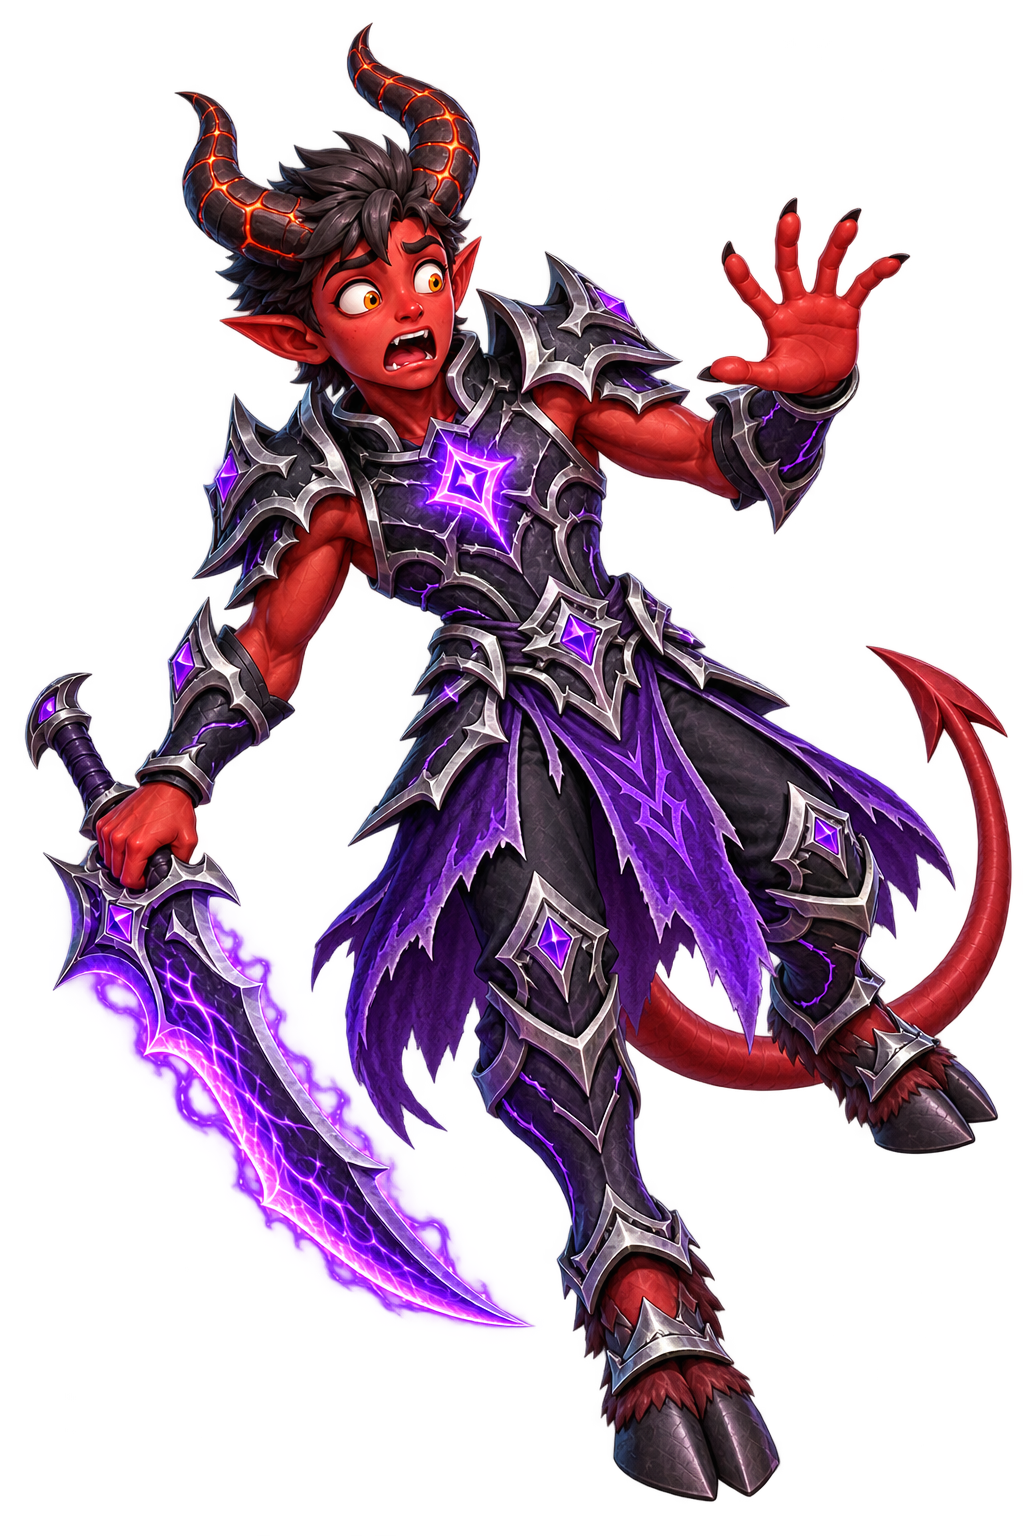
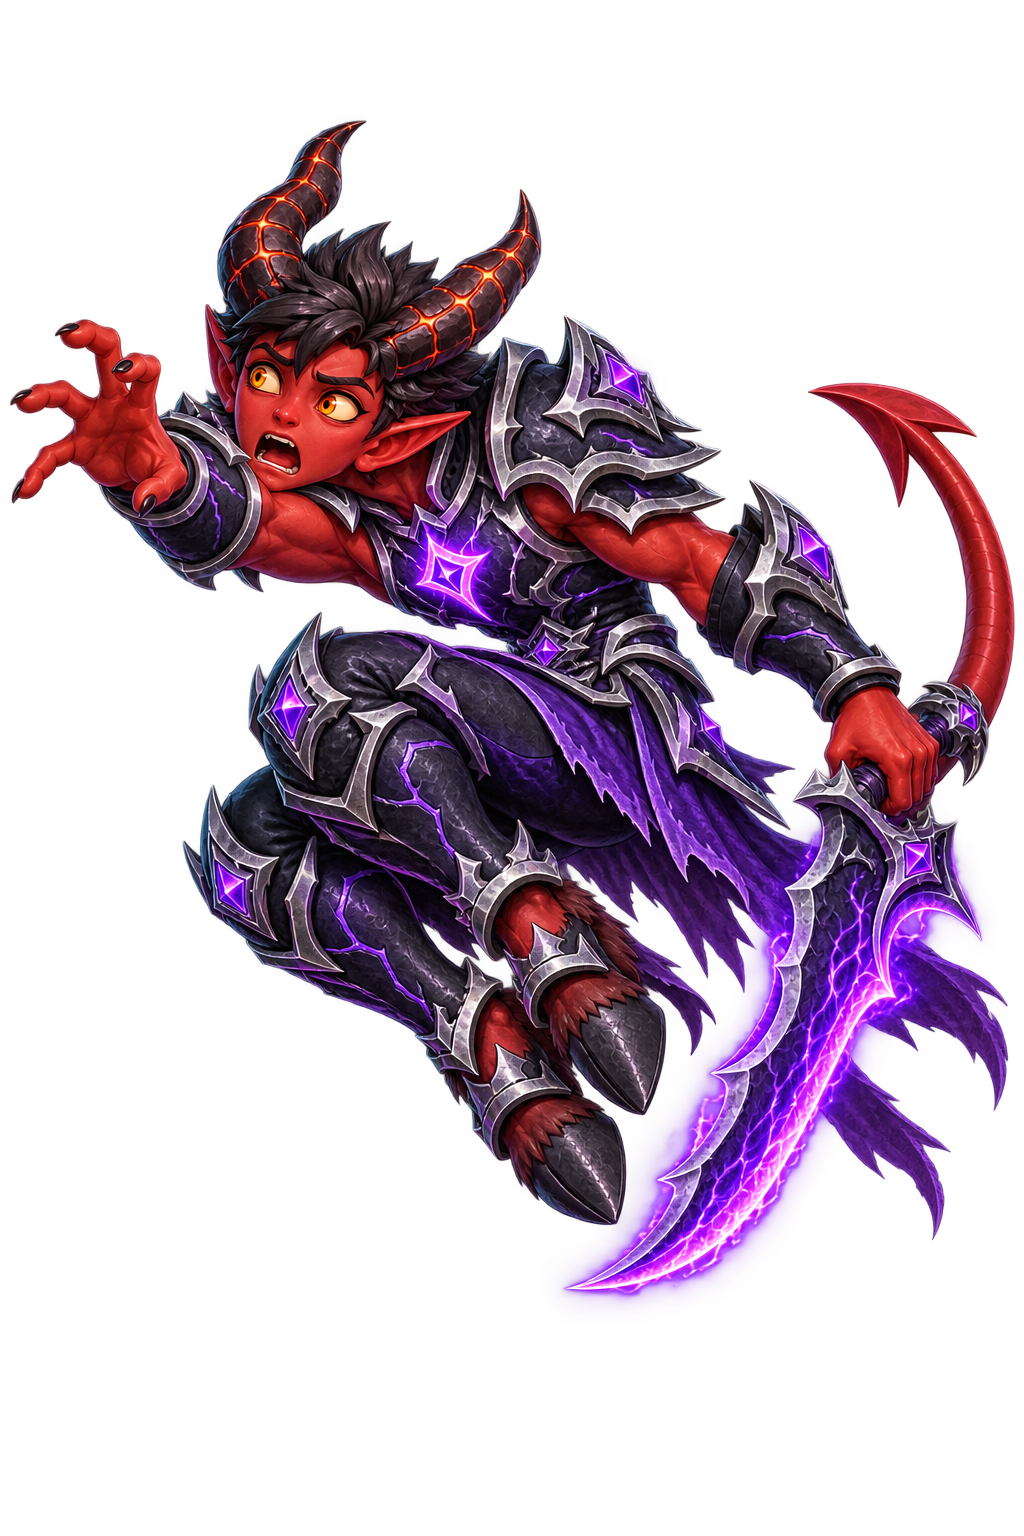
Curl Azrak plant reaction pose using Kalamo as reference

diff --git a/index.html b/index.html
@@ -36,7 +36,7 @@
     <link rel="apple-touch-icon" sizes="180x180" href="assets/icons/apple-touch-icon.png">
     <link rel="preload" as="audio" href="assets/sounds/melodia-menu.mp3" type="audio/mpeg">
     <link rel="preload" as="image" href="assets/images/fondos/menu-inicio-aventura.png">
-    <link rel="stylesheet" href="css/styles.css?v=20260929-fauces-3">
+    <link rel="stylesheet" href="css/styles.css?v=20260929-fauces-4">
     <link rel="stylesheet" href="css/menu-navigation.css?v=20260921-social-mapa-1">
     <link rel="stylesheet" href="css/cosmetic-shop.css?v=20260929-finales-1">
     <link rel="stylesheet" href="css/azrak-world.css?v=20260913-runas-viento-captura-1">
@@ -1573,7 +1573,7 @@
       </div>
       <button id="reintentarPerfilPublico" class="secundario" type="button" hidden>Reintentar</button>
     </dialog>
-    <script src="js/cosmetic-store.js?v=20260929-fauces-3"></script>
+    <script src="js/cosmetic-store.js?v=20260929-fauces-4"></script>
     <script src="js/game-wallet.js?v=20260924-premios-1"></script>
     <script src="js/versus-ranks.js?v=20260922-medallas-3"></script>
     <script src="js/player-avatar.js?v=20260922-medallas-3"></script>
@@ -1594,8 +1594,8 @@
     <script src="js/kalamo-desert.js?v=20260909-arco-aren-1"></script>
     <script src="js/world-word-hazards.js?v=20260914-jaula-fuego"></script>
     <script src="js/developer-access.js?v=20260923-autor-3"></script>
-    <script src="js/app.js?v=20260929-fauces-3"></script>
-    <script src="js/cosmetic-shop.js?v=20260929-fauces-3"></script>
+    <script src="js/app.js?v=20260929-fauces-4"></script>
+    <script src="js/cosmetic-shop.js?v=20260929-fauces-4"></script>
     <script src="js/public-player-profile.js?v=20260922-medallas-3"></script>
     <script src="js/pwa.js?v=20260909-recuperar-actualizacion-1"></script>
 </body>

diff --git a/sw.js b/sw.js
@@ -1,5 +1,5 @@
 const CACHE_PREFIX = "aventura-palabras-runtime-";
-const CACHE_NAME = `${CACHE_PREFIX}v315`;
+const CACHE_NAME = `${CACHE_PREFIX}v316`;
 const LEGACY_CACHE_NAMES = new Set([
   `${CACHE_PREFIX}v227`,
   `${CACHE_PREFIX}v226`,
@@ -742,10 +742,10 @@ const ASSET_REVISIONS = {
   "./assets/images/trajes/kairos-real-ataque-v1.png": "20260923-trajes-2",
   "./css/world-word-hazards.css": "20260914-jaula-fuego",
   "./js/world-word-hazards.js": "20260914-jaula-fuego",
-  "./": "20260929-fauces-3",
-  "./index.html": "20260929-fauces-3",
-  "./js/cosmetic-store.js": "20260929-fauces-3",
-  "./js/cosmetic-shop.js": "20260929-fauces-3",
+  "./": "20260929-fauces-4",
+  "./index.html": "20260929-fauces-4",
+  "./js/cosmetic-store.js": "20260929-fauces-4",
+  "./js/cosmetic-shop.js": "20260929-fauces-4",
   "./css/cosmetic-shop.css": "20260929-finales-1",
   "./js/game-wallet.js": "20260924-premios-1",
   "./js/prologue-cinematic.js": "20260921-tienda-1",
@@ -753,8 +753,8 @@ const ASSET_REVISIONS = {
   "./js/player-avatar.js": "20260922-medallas-3",
   "./css/versus-identity.css": "20260915-social-1",
   "./js/versus-identity.js": "20260915-social-1",
-  "./css/styles.css": "20260929-fauces-3",
-  "./js/app.js": "20260929-fauces-3",
+  "./css/styles.css": "20260929-fauces-4",
+  "./js/app.js": "20260929-fauces-4",
   "./js/versus-room.js": "20260922-alias-1",
   "./js/public-player-profile.js": "20260922-medallas-3",
   "./js/azrak-world.js": "20260913-shadow-runas-2",

diff --git a/css/styles.css b/css/styles.css
@@ -7265,11 +7265,6 @@ button:disabled {
     --direccion-victima-fauces: -1;
 }
 
-.cinematica-victima-fauces.victima-fauces-azrak.reaccion-fauces-activa {
-    --direccion-victima-fauces: -1;
-    --giro-victima-fauces: -1;
-}
-
 .cinematica-carnivora {
     left: 22%;
     bottom: -7%;
